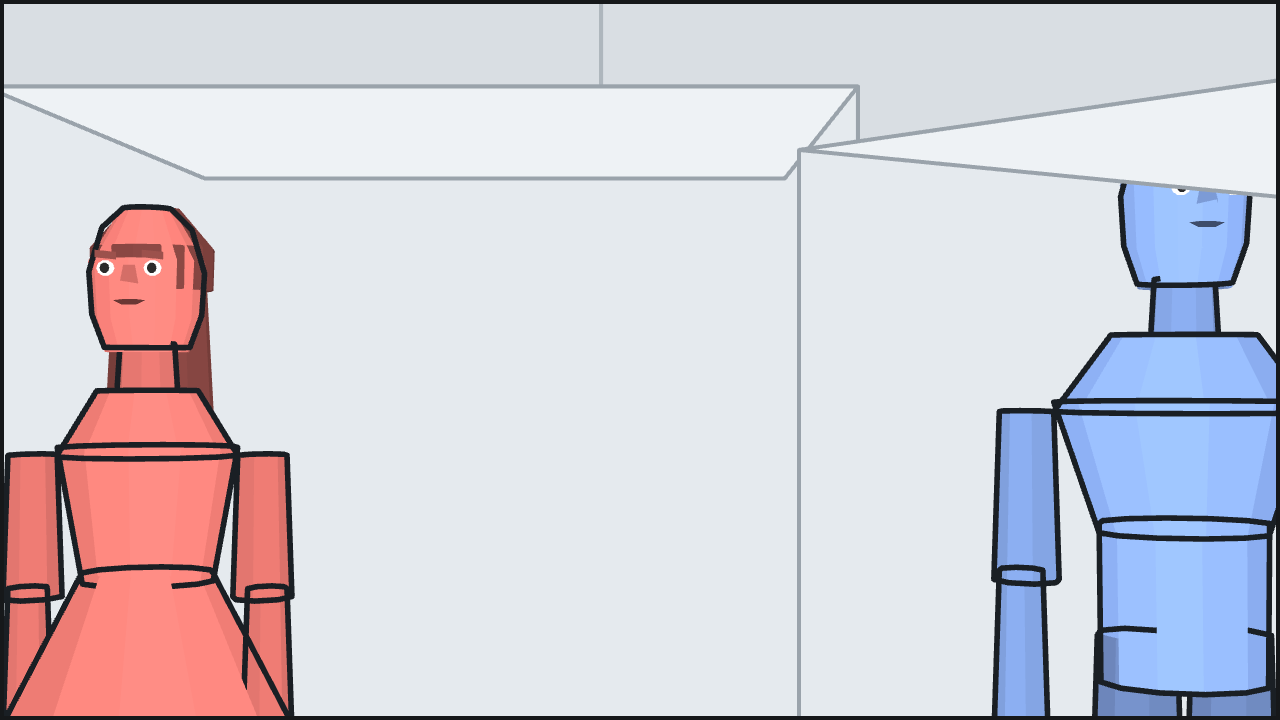
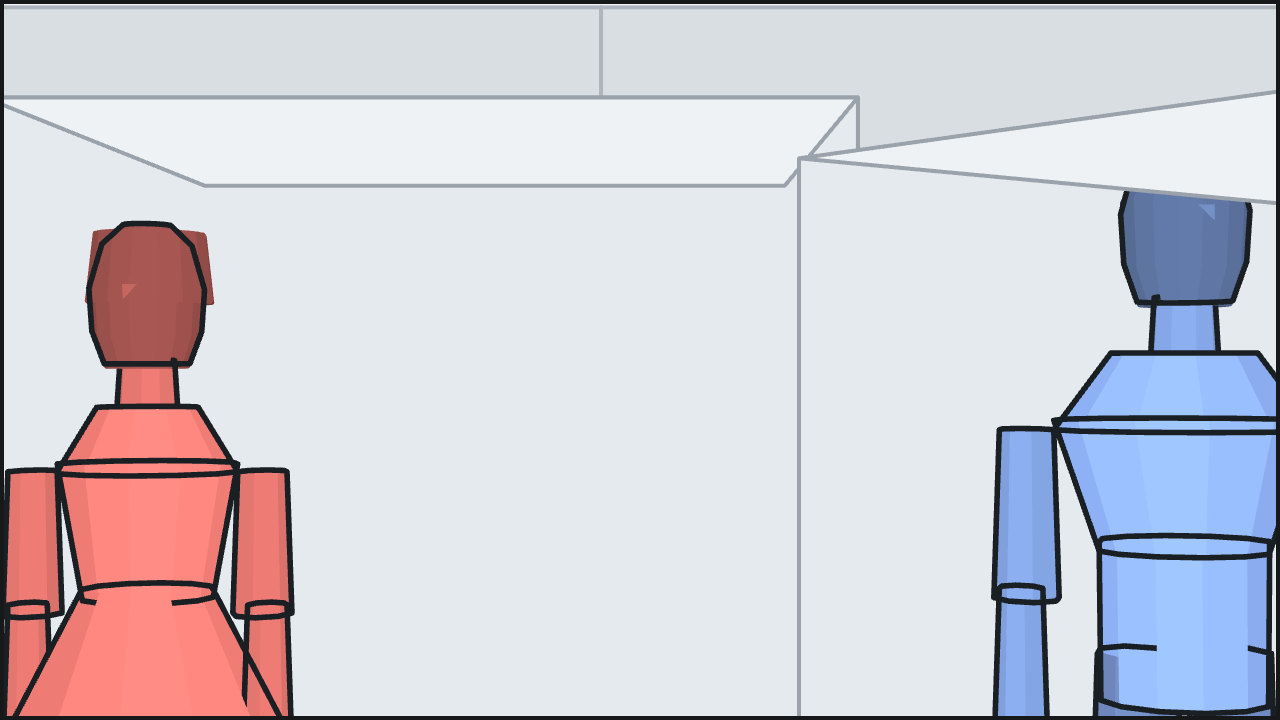
Sightline: overhead figures matched to how you see people from above

diff --git a/docs/app/view3d.js b/docs/app/view3d.js
@@ -7,10 +7,10 @@
 // "does the sofa block her" with a director in ten seconds, not for looking
 // like the film.
 
-import * as H from "./hcw.js?v=65852e25";
-import * as R from "./render.js?v=65852e25";
-import { UNITS_PER_FOOT } from "./catalog.js?v=65852e25";
-import { fieldOfView } from "./optics.js?v=65852e25";
+import * as H from "./hcw.js?v=f082f472";
+import * as R from "./render.js?v=f082f472";
+import { UNITS_PER_FOOT } from "./catalog.js?v=f082f472";
+import { fieldOfView } from "./optics.js?v=f082f472";
 
 const ft = (n) => n * UNITS_PER_FOOT;
 
@@ -464,81 +464,28 @@ const DARK = "#2b2b2b";
  * where it belongs on somebody flat on their back.
  */
 function faceOn(out, cam, p, facing, { at: fwd, z, r, up = false, colour }) {
+  // No face. Looking down on a plan you see the top of somebody's head, and
+  // these should say the same thing: a shape, a colour, and which way it
+  // points. Eyes and a mouth at this size only ever read as a toy. What is
+  // left is a nose, because you still have to know where somebody is looking.
   const cs = Math.cos(facing), sn = Math.sin(facing);
-
-  // Features are flat patches laid on the face, so they have to be dropped
-  // once the face turns away — otherwise they smear round the side of the
-  // head and somebody with their back to you appears to be looking at you.
-  // Somebody on their back is looking at the ceiling, so that case always
-  // draws.
   if (!up) {
     const toCam = Math.atan2(cam.y - p.y, cam.x - p.x);
-    if (Math.cos(facing - toCam) < 0.12) return;
+    if (Math.cos(facing - toCam) < 0.05) return;
   }
-
-  // Features sit on the head itself rather than on a panel stuck to it — the
-  // head is already the character's colour, so a plate over it only made the
-  // face look like a sticker. u runs across the face, v up it; when somebody
-  // is on their back the face points at the ceiling and v runs forward.
-  const shape = (pts, fill, lift) => {
-    const q = pts.map(([u, v]) => {
-      const f = up ? fwd + v : fwd + lift;
-      const h = up ? z + lift : z + v;
-      return project(cam, p.x + f * cs - u * sn, p.y + f * sn + u * cs, h);
-    });
-    if (q.some((v) => !v)) return;
-    out.push({ pts: q, fill, stroke: "none",
-               depth: q.reduce((t, v) => t + v.depth, 0) / q.length - 0.06 - lift * 0.02 });
-  };
-
-  /** A rounded blob, which is what an eye needs to be at this size. */
-  const blob = (cu, cv, ru, rv, fill, lift) => {
-    const pts = [];
-    for (let i = 0; i < 10; i++) {
-      const a = (i / 10) * Math.PI * 2;
-      pts.push([cu + Math.cos(a) * ru, cv + Math.sin(a) * rv]);
-    }
-    shape(pts, fill, lift);
-  };
-
-  const L = 0.6;                        // how far features stand off the head
-  const eyeU = r * 0.44, eyeV = r * 0.16;
-
-  // Brows first — a face without them reads as a doll.
-  for (const s2 of [-1, 1]) {
-    shape([[s2 * eyeU - r * 0.2, eyeV + r * 0.3], [s2 * eyeU + r * 0.2, eyeV + r * 0.34],
-           [s2 * eyeU + r * 0.2, eyeV + r * 0.2], [s2 * eyeU - r * 0.2, eyeV + r * 0.16]],
-          tone(colour, 0.62), L);
-    blob(s2 * eyeU, eyeV, r * 0.17, r * 0.15, "#ffffff", L);
-    blob(s2 * eyeU, eyeV, r * 0.09, r * 0.1, DARK, L * 1.6);
-  }
-
-  // A mouth with a bit of curve in it, rather than a bar.
-  shape([[-r * 0.3, -r * 0.44], [-r * 0.14, -r * 0.52], [r * 0.14, -r * 0.52],
-         [r * 0.3, -r * 0.44], [r * 0.14, -r * 0.42], [-r * 0.14, -r * 0.42]],
-        tone(colour, 0.42), L);
-
-  // The nose: a wedge down the middle of the face, standing off far enough
-  // that a profile still reads as a face rather than a coloured ball.
-  const nose = ft(0.17), w = r * 0.11;
+  const nose = ft(0.13), w = r * 0.14;
   const pt = (u, v, lift) => {
     const f = up ? fwd + v : fwd + lift;
     const hgt = up ? z + lift : z + v;
     return project(cam, p.x + f * cs - u * sn, p.y + f * sn + u * cs, hgt);
   };
-  const bridge = [pt(-w, eyeV + r * 0.06, L), pt(w, eyeV + r * 0.06, L)];
-  const tip = pt(0, -r * 0.1, L + nose);
-  const flank = [pt(-w * 1.6, -r * 0.13, L), pt(w * 1.6, -r * 0.13, L)];
-  for (const tri of [[bridge[0], bridge[1], tip],
-                     [bridge[0], tip, flank[0]],
-                     [bridge[1], tip, flank[1]]]) {
-    if (tri.some((v) => !v)) continue;
-    out.push({ pts: tri, fill: tone(colour, 0.84), stroke: "none",
-               depth: tri.reduce((a, v) => a + v.depth, 0) / 3 - 0.12 });
-  }
+  const tri = [pt(-w, r * 0.18, 0.4), pt(w, r * 0.18, 0.4),
+               pt(0, -r * 0.12, 0.4 + nose)];
+  if (tri.some((v) => !v)) return;
+  out.push({ pts: tri, fill: tone(colour, 0.78), stroke: "none",
+             depth: tri.reduce((a, v) => a + v.depth, 0) / 3 - 0.1 });
 }
 
-/** Head, neck and face as one unit, wherever the body needs them. */
 /** One outline round a head, rather than one round each slice of it. */
 function outlineBall(out, cam, p, facing, fwd, r, z0, z1) {
   const cs = Math.cos(facing), sn = Math.sin(facing);
@@ -558,7 +505,7 @@ function outlineBall(out, cam, p, facing, fwd, r, z0, z1) {
 function headOn(out, cam, p, facing, colour, { z0, z1, fwd = 0, up = false,
                                               female = false }) {
   const r = ft(0.35);
-  const hair = tone(colour, 0.52);
+  const crown = tone(colour, 0.62);
 
   // A ball, in three slices — a jaw that narrows in, the width of the head at
   // the cheekbones, and a crown that rounds off. One tapered tube with a lid
@@ -570,29 +517,16 @@ function headOn(out, cam, p, facing, colour, { z0, z1, fwd = 0, up = false,
       len1: r * 2 * w1 * grow, wide1: r * 1.9 * w1 * grow,
       z0: z0 + h * a, z1: z0 + h * b, fill, sides: 16, outline: false,
     });
-  slice(0, 0.22, 0.72, 0.94, colour);
-  slice(0.22, 0.62, 0.94, 1, colour);
-  slice(0.62, 1, 1, 0.42, colour);
+  slice(0, 0.22, 0.72, 0.94, crown);
+  slice(0.22, 0.62, 0.94, 1, crown);
+  slice(0.62, 1, 1, 0.42, crown);
   outlineBall(out, cam, p, facing, fwd, r * 1.02, z0, z1);
 
-  // Hair follows the same ball rather than sitting on it as a slab: a cap over
-  // the crown for a man, and for a woman the same cap carried down the back.
-  if (female) {
-    // Set well back so it frames the face rather than covering it.
-    slice(0.44, 0.72, 0.99, 1.01, hair, 1.07, r * 0.34);
-    slice(0.72, 1, 1.01, 0.44, hair, 1.07, r * 0.34);
-    if (!up) {
-      part(out, cam, p, facing, {
-        fwd: fwd - r * 0.78, len: r * 0.8, wide: r * 1.95,
-        len1: r * 0.66, wide1: r * 1.6,
-        z0: z0 - h * 0.7, z1: z0 + h * 0.6, fill: hair, sides: 10,
-        outline: false,
-      });
-    }
-  } else {
-    slice(0.66, 0.82, 1.0, 0.94, hair, 1.05, r * 0.06);
-    slice(0.82, 1, 0.94, 0.42, hair, 1.05, r * 0.06);
-  }
+  // One solid colour: the head is a darker tone of the body and that is all,
+  // the way the crown of somebody's head reads darker than their shoulders
+  // looking down at them. A woman's reads a touch fuller, which is the same
+  // difference the plan uses.
+  if (female) slice(0.46, 0.94, 1.05, 0.92, crown, 1.06, r * 0.18);
 
   faceOn(out, cam, p, facing, up
     ? { at: fwd, z: z1, r: r * 0.9, up: true, colour }

diff --git a/docs/app/render.js b/docs/app/render.js
@@ -1,11 +1,11 @@
 // Drawing, in scene units. Every constant here was measured off a diagram the
 // real the plan is measured in, so shapes land where the numbers say.
 
-import { FXG } from "./assets.js?v=65852e25";
-import { KEY_TO_FXG, KEY_TO_LABEL, CAMERA_COLORS } from "./catalog.js?v=65852e25";
-import { EXTRA_SVG } from "./props.js?v=65852e25";
-import { GAUGE } from "./track.js?v=65852e25";
-import * as H from "./hcw.js?v=65852e25";
+import { FXG } from "./assets.js?v=f082f472";
+import { KEY_TO_FXG, KEY_TO_LABEL, CAMERA_COLORS } from "./catalog.js?v=f082f472";
+import { EXTRA_SVG } from "./props.js?v=f082f472";
+import { GAUGE } from "./track.js?v=f082f472";
+import * as H from "./hcw.js?v=f082f472";
 
 export const STROKE = 3;            // the app draws almost every outline at 3
 export const CHAR_R = 20;
@@ -235,40 +235,38 @@ function drawCharacter(obj) {
 }
 
 /**
- * A person from directly above, drawn the way a lighting diagram draws one: a
- * solid body mass with the head sat in the front of it. Diagrams like these
- * are read at a glance across a table, so the figure is a filled shape rather
- * than an outline — it holds up small and it prints.
+ * A person from directly above.
+ *
+ * This is what you actually see looking down at somebody: the crown of their
+ * head, their shoulders spread round it, and their feet just showing in front.
+ * Nothing else — no face, because from up here there isn't one. It's the
+ * shape every good lighting diagram uses, and it holds up at any size.
  */
 function drawPlanFigure(obj, color, female) {
   const g = el("g");
-  const sh = shoulderHalf(female);
-  const depth = female ? 11 : 12.5;
+  const across = female ? 13 : 15.5;     // half the shoulders
+  const deep = female ? 9 : 10;          // half of front to back
+  const headR = female ? 7.4 : 6.9;      // a woman's hair reads bigger from above
 
-  // Shoulders and arms as one mass, a little narrower at the front.
-  g.append(el("path", {
-    d: `M${-depth},${-sh} Q${depth * 1.1},${-sh * 0.92} ${depth * 0.95},0 ` +
-       `Q${depth * 1.1},${sh * 0.92} ${-depth},${sh} ` +
-       `Q${-depth * 1.5},0 ${-depth},${-sh} Z`,
-    fill: color, stroke: INK, "stroke-width": 2.4, "stroke-linejoin": "round",
-  }));
-
-  // The head, forward of the shoulders and darker, so the two never merge.
-  const head = { cx: depth * 0.42, cy: 0, r: PLAN_HEAD };
-  g.append(el("circle", {
-    ...head, fill: shade(color, 0.66), stroke: INK, "stroke-width": 2.2,
-  }));
-
-  // The original's own mark: one line across the face for a man, two for a
-  // woman. It costs nothing and every scene in the library already uses it.
-  for (const d of female ? [PLAN_HEAD * 0.2, PLAN_HEAD * 0.62]
-                         : [PLAN_HEAD * 0.42]) {
-    const h = Math.sqrt(Math.max(0, PLAN_HEAD * PLAN_HEAD - d * d)) * 0.86;
-    g.append(el("line", {
-      x1: head.cx + d, y1: -h, x2: head.cx + d, y2: h,
-      stroke: INK, "stroke-width": 2, "stroke-linecap": "round",
+  // Feet, just in front of the body.
+  for (const s2 of [-1, 1]) {
+    g.append(el("circle", {
+      cx: deep * 1.05, cy: s2 * across * 0.3, r: 3.8,
+      fill: shade(color, 0.45), stroke: "none",
     }));
   }
+
+  // Shoulders.
+  g.append(el("ellipse", {
+    cx: -1, cy: 0, rx: deep, ry: across,
+    fill: color, stroke: INK, "stroke-width": 2.2,
+  }));
+
+  // The top of the head, darker so it separates from the shoulders.
+  g.append(el("circle", {
+    cx: 1.5, cy: 0, r: headR,
+    fill: shade(color, 0.58), stroke: INK, "stroke-width": 2,
+  }));
   return g;
 }
 

diff --git a/docs/app/handbook.js b/docs/app/handbook.js
@@ -175,23 +175,18 @@ widths too, 18 inches against 14.</p>
 Down the lens you're looking at the room at one moment, and there is only ever
 one of anybody in it — so the viewer shows the position this beat belongs to
 and leaves the rest out. Play it and you watch one person walk.</p>
+<p>On the plan a person is what you actually see looking down at them: the
+crown of the head, the shoulders spread round it, and their feet just showing
+in front. There is no face, because from up there there isn't one. It is the
+shape every good lighting diagram uses and it holds up at any size.</p>
 <p>Everybody is built to real height — an average adult is five foot eight, so
 that is what they are, with men a little over and women a little under. Down
-the lens people are built out of limbs — head, torso, arms, legs — so
-a figure reads as a person rather than a slab, and the three postures are three
-arrangements of the same body rather than three different shapes. Each has a
-<b>face</b> in their own colour — eyes, a mouth, and a nose that sticks out far
-enough to read from the side — so you know whose face you are looking at as
-well as which way it points. The shapes come from the signs on lavatory
-doors, which are the most legible drawings of a person anybody has made — a
-round head above the shoulders and one continuous body that says everything by
-its outline. Not copied, since those are flat and these have to hold up from
-any angle in a room, but the same idea: a silhouette carries further than
-detail. A man is a shield, narrow at the hips and widening to the shoulders
-where the arms are part of the mass. A woman is a bell: a waist, then a skirt
-out to the hem. Neither has a feature you have to go looking for. Somebody flat on their back looks at the ceiling, so their face is on
-top of their head where it belongs. You should never have to work out which way
-someone is looking.</p>
+the lens they are the same person in one solid colour with a darker head, and a
+nose so you can see which way they are looking. A man is a shield, narrow at
+the hips and widening to the shoulders where the arms are part of the mass; a
+woman is a bell — a waist, then a skirt out to the hem. Nothing else: at the
+size these draw, a face only ever reads as a toy, and the colour is what tells
+you who it is.</p>
 <h4>Getting a frame out of the lens view</h4>
 <p>Three buttons under the through-the-lens view. <b>Storyboard</b> drops that
 frame onto the plan as a real storyboard object beside its camera — drag it

diff --git a/docs/app/app.js b/docs/app/app.js
@@ -1,26 +1,26 @@
 // Marks — overheads, blocking and shot lists for people who shoot.
 // reading and writing the same .hcw scene files.
 
-import { BRAND, SLUG } from "./brand.js?v=65852e25";
-import * as H from "./hcw.js?v=65852e25";
-import * as R from "./render.js?v=65852e25";
-import { FXG } from "./assets.js?v=65852e25";
-import * as B from "./blocking.js?v=65852e25";
-import { byCategory, EXTRA_LABEL } from "./props.js?v=65852e25";
-import { castOf, parseShot, describe, placeFor, standardCoverage, LENSES } from "./shots.js?v=65852e25";
-import { HANDBOOK } from "./handbook.js?v=65852e25";
-import { FORMATS, fieldOfView, formatKey, findFormat } from "./optics.js?v=65852e25";
-import * as V3 from "./view3d.js?v=65852e25";
-import * as TR from "./track.js?v=65852e25";
-import * as RIG from "./rigs.js?v=65852e25";
-import { Cloud, sceneId, connectLive } from "./storage.js?v=65852e25";
-import { Library } from "./library.js?v=65852e25";
+import { BRAND, SLUG } from "./brand.js?v=f082f472";
+import * as H from "./hcw.js?v=f082f472";
+import * as R from "./render.js?v=f082f472";
+import { FXG } from "./assets.js?v=f082f472";
+import * as B from "./blocking.js?v=f082f472";
+import { byCategory, EXTRA_LABEL } from "./props.js?v=f082f472";
+import { castOf, parseShot, describe, placeFor, standardCoverage, LENSES } from "./shots.js?v=f082f472";
+import { HANDBOOK } from "./handbook.js?v=f082f472";
+import { FORMATS, fieldOfView, formatKey, findFormat } from "./optics.js?v=f082f472";
+import * as V3 from "./view3d.js?v=f082f472";
+import * as TR from "./track.js?v=f082f472";
+import * as RIG from "./rigs.js?v=f082f472";
+import { Cloud, sceneId, connectLive } from "./storage.js?v=f082f472";
+import { Library } from "./library.js?v=f082f472";
 import {
   PROPS, LIGHTING, SETPIECES, EXTRAS, KEY_TO_FXG, KEY_TO_LABEL,
   CHARACTER_COLORS, CAMERA_COLORS, SHOT_SIZES, SHOT_FUNCTIONS, LAYERS,
   SCENERY_LAYERS,
   GRID, UNITS_PER_FOOT, feet,
-} from "./catalog.js?v=65852e25";
+} from "./catalog.js?v=f082f472";
 
 const $ = (s) => document.querySelector(s);
 const stage = $("#stage"), world = $("#world"), hud = $("#hud");

diff --git a/docs/app/shots.js b/docs/app/shots.js
@@ -5,9 +5,9 @@
 // MCU, M, W, MW, TWO, MASTER, INS. Subjects are either a name or its initial,
 // and an OTS is always "A To B". So the fast path is to type it.
 
-import * as H from "./hcw.js?v=65852e25";
-import * as R from "./render.js?v=65852e25";
-import { UNITS_PER_FOOT } from "./catalog.js?v=65852e25";
+import * as H from "./hcw.js?v=f082f472";
+import * as R from "./render.js?v=f082f472";
+import { UNITS_PER_FOOT } from "./catalog.js?v=f082f472";
 
 /** Canonical form on the left, everything seen in the library on the right. */
 const SIZES = [

diff --git a/docs/app/rigs.js b/docs/app/rigs.js
@@ -10,9 +10,9 @@
 // in the file format. The camera-to-rig link is ours; a scene opened in the
 // original still reads, the camera just comes off the rig.
 
-import * as H from "./hcw.js?v=65852e25";
-import * as R from "./render.js?v=65852e25";
-import { UNITS_PER_FOOT } from "./catalog.js?v=65852e25";
+import * as H from "./hcw.js?v=f082f472";
+import * as R from "./render.js?v=f082f472";
+import { UNITS_PER_FOOT } from "./catalog.js?v=f082f472";
 
 const ft = (n) => n * UNITS_PER_FOOT;
 

diff --git a/docs/app/blocking.js b/docs/app/blocking.js
@@ -6,8 +6,8 @@
 // people type into labels say which beat each position belongs to. This reads
 // both and turns a static tangle into something you can step through.
 
-import * as H from "./hcw.js?v=65852e25";
-import * as R from "./render.js?v=65852e25";
+import * as H from "./hcw.js?v=f082f472";
+import * as R from "./render.js?v=f082f472";
 
 /** "1,4" / "5/6" / "2 & 3" -> [1,4] / [5,6] / [2,3] */
 export function parseBeatLabel(text) {

diff --git a/docs/app/track.js b/docs/app/track.js
@@ -6,7 +6,7 @@
 // on every ride-on dolly. Laying track here means laying those pieces, so the
 // count at the bottom is what you'd actually ask the key grip for.
 
-import { UNITS_PER_FOOT } from "./catalog.js?v=65852e25";
+import { UNITS_PER_FOOT } from "./catalog.js?v=f082f472";
 
 const ft = (n) => n * UNITS_PER_FOOT;
 

diff --git a/docs/app/storage.js b/docs/app/storage.js
@@ -1,4 +1,4 @@
-import { SLUG } from "./brand.js?v=65852e25";
+import { SLUG } from "./brand.js?v=f082f472";
 // Where scenes live.
 //
 // Served from localhost, the app reads and writes the real "Shot Designer
